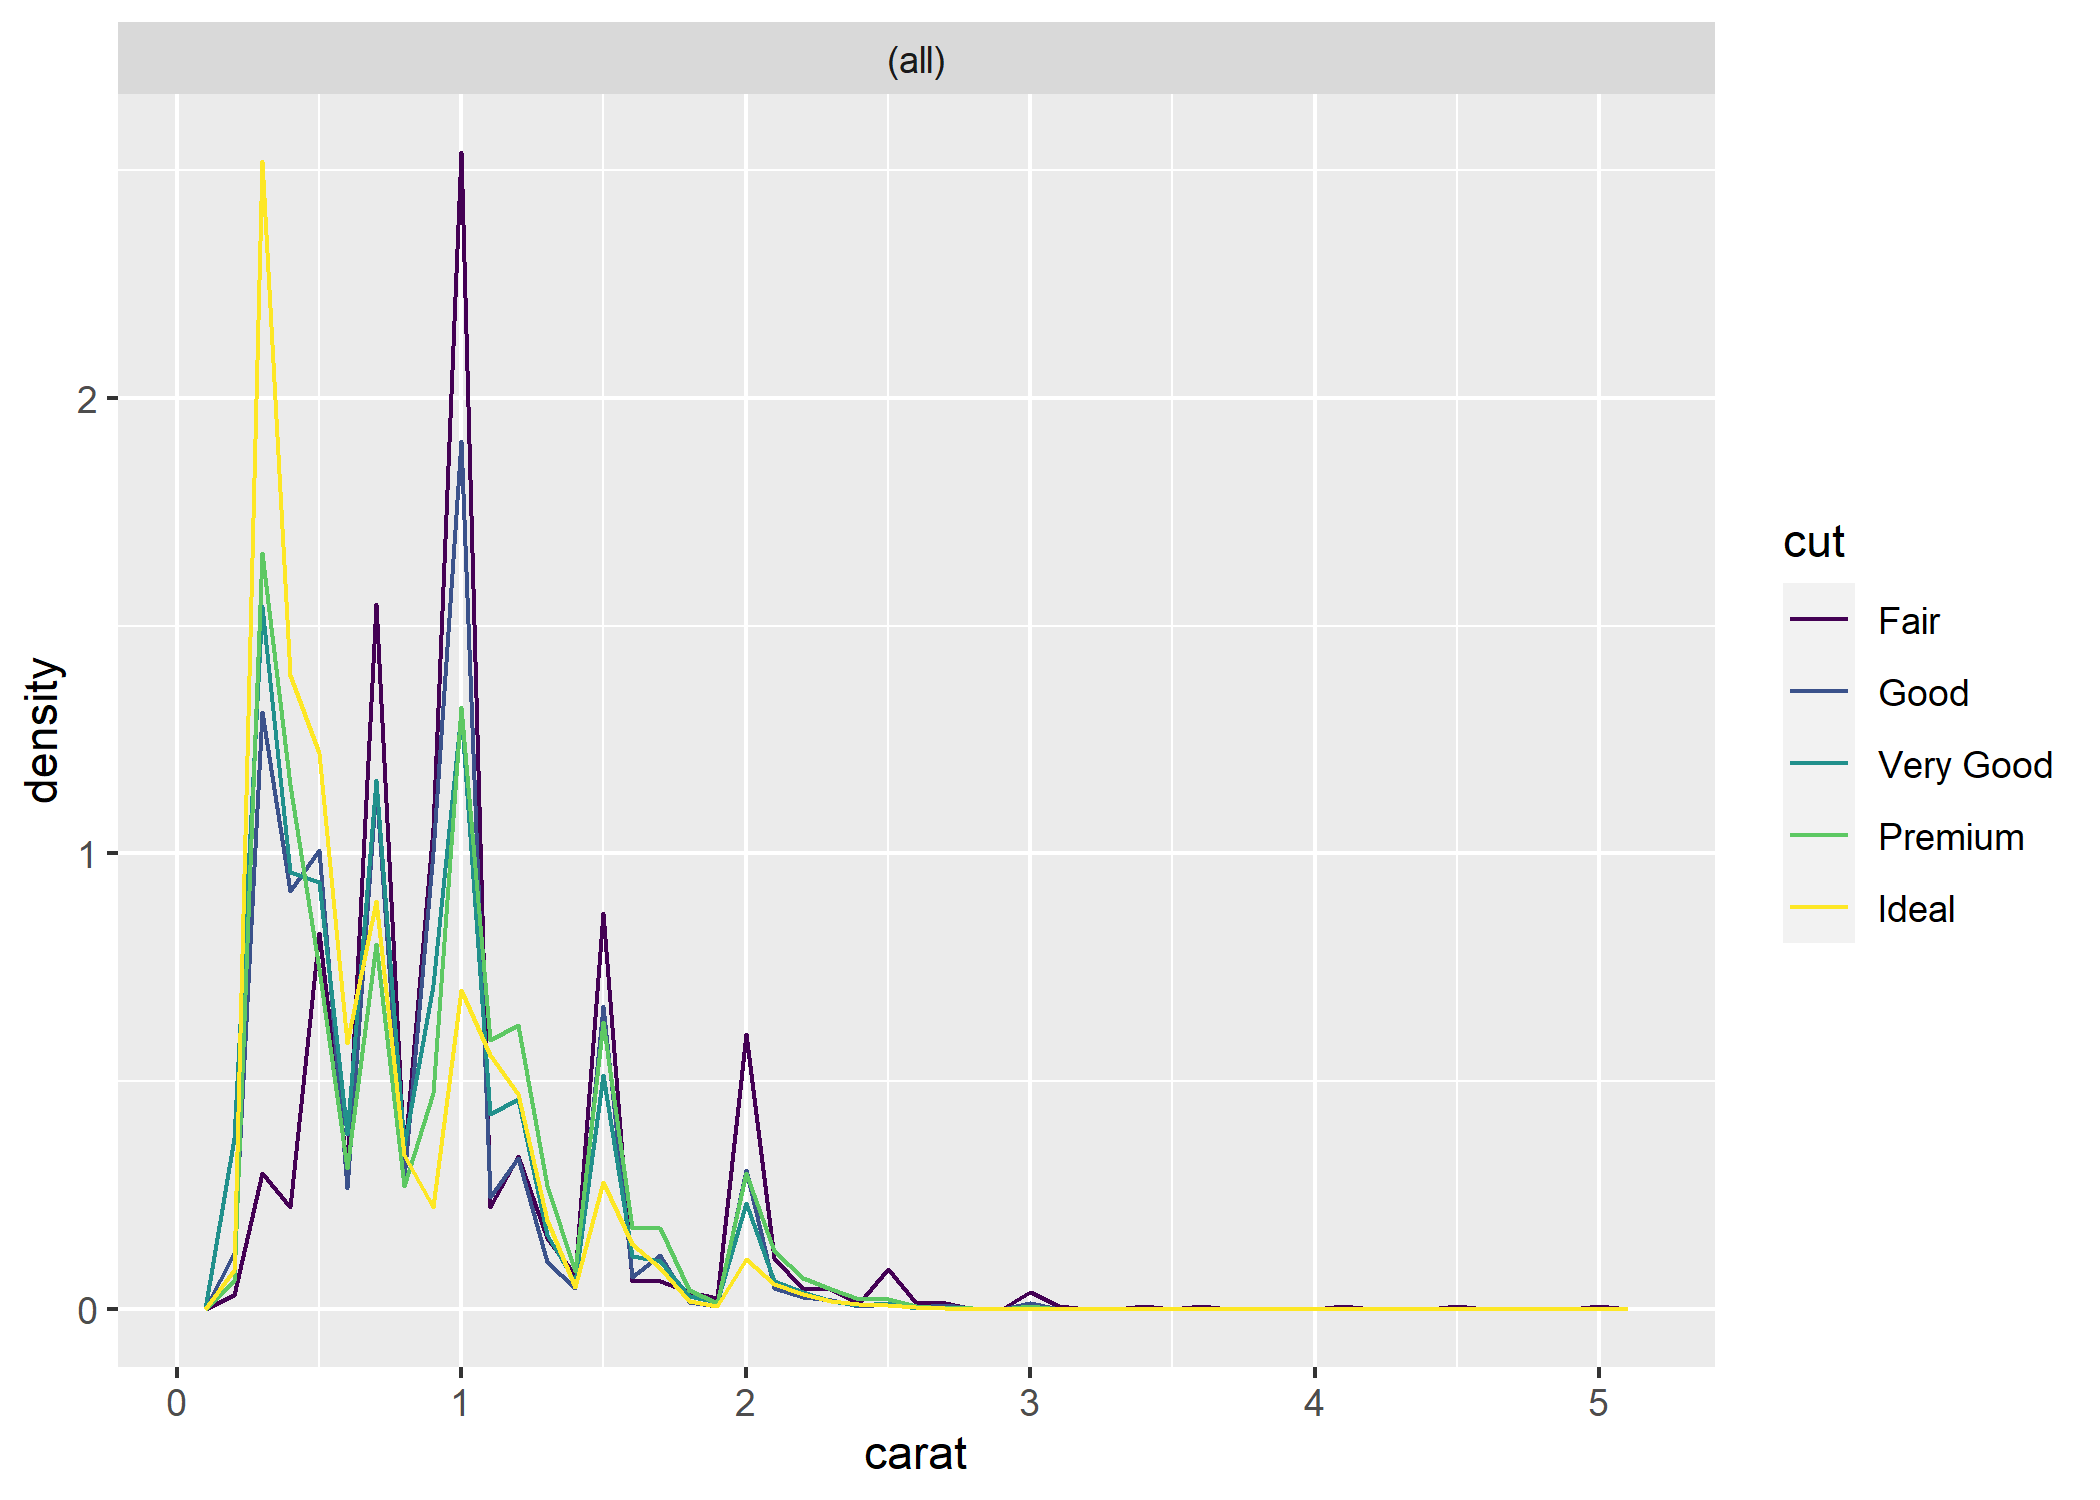
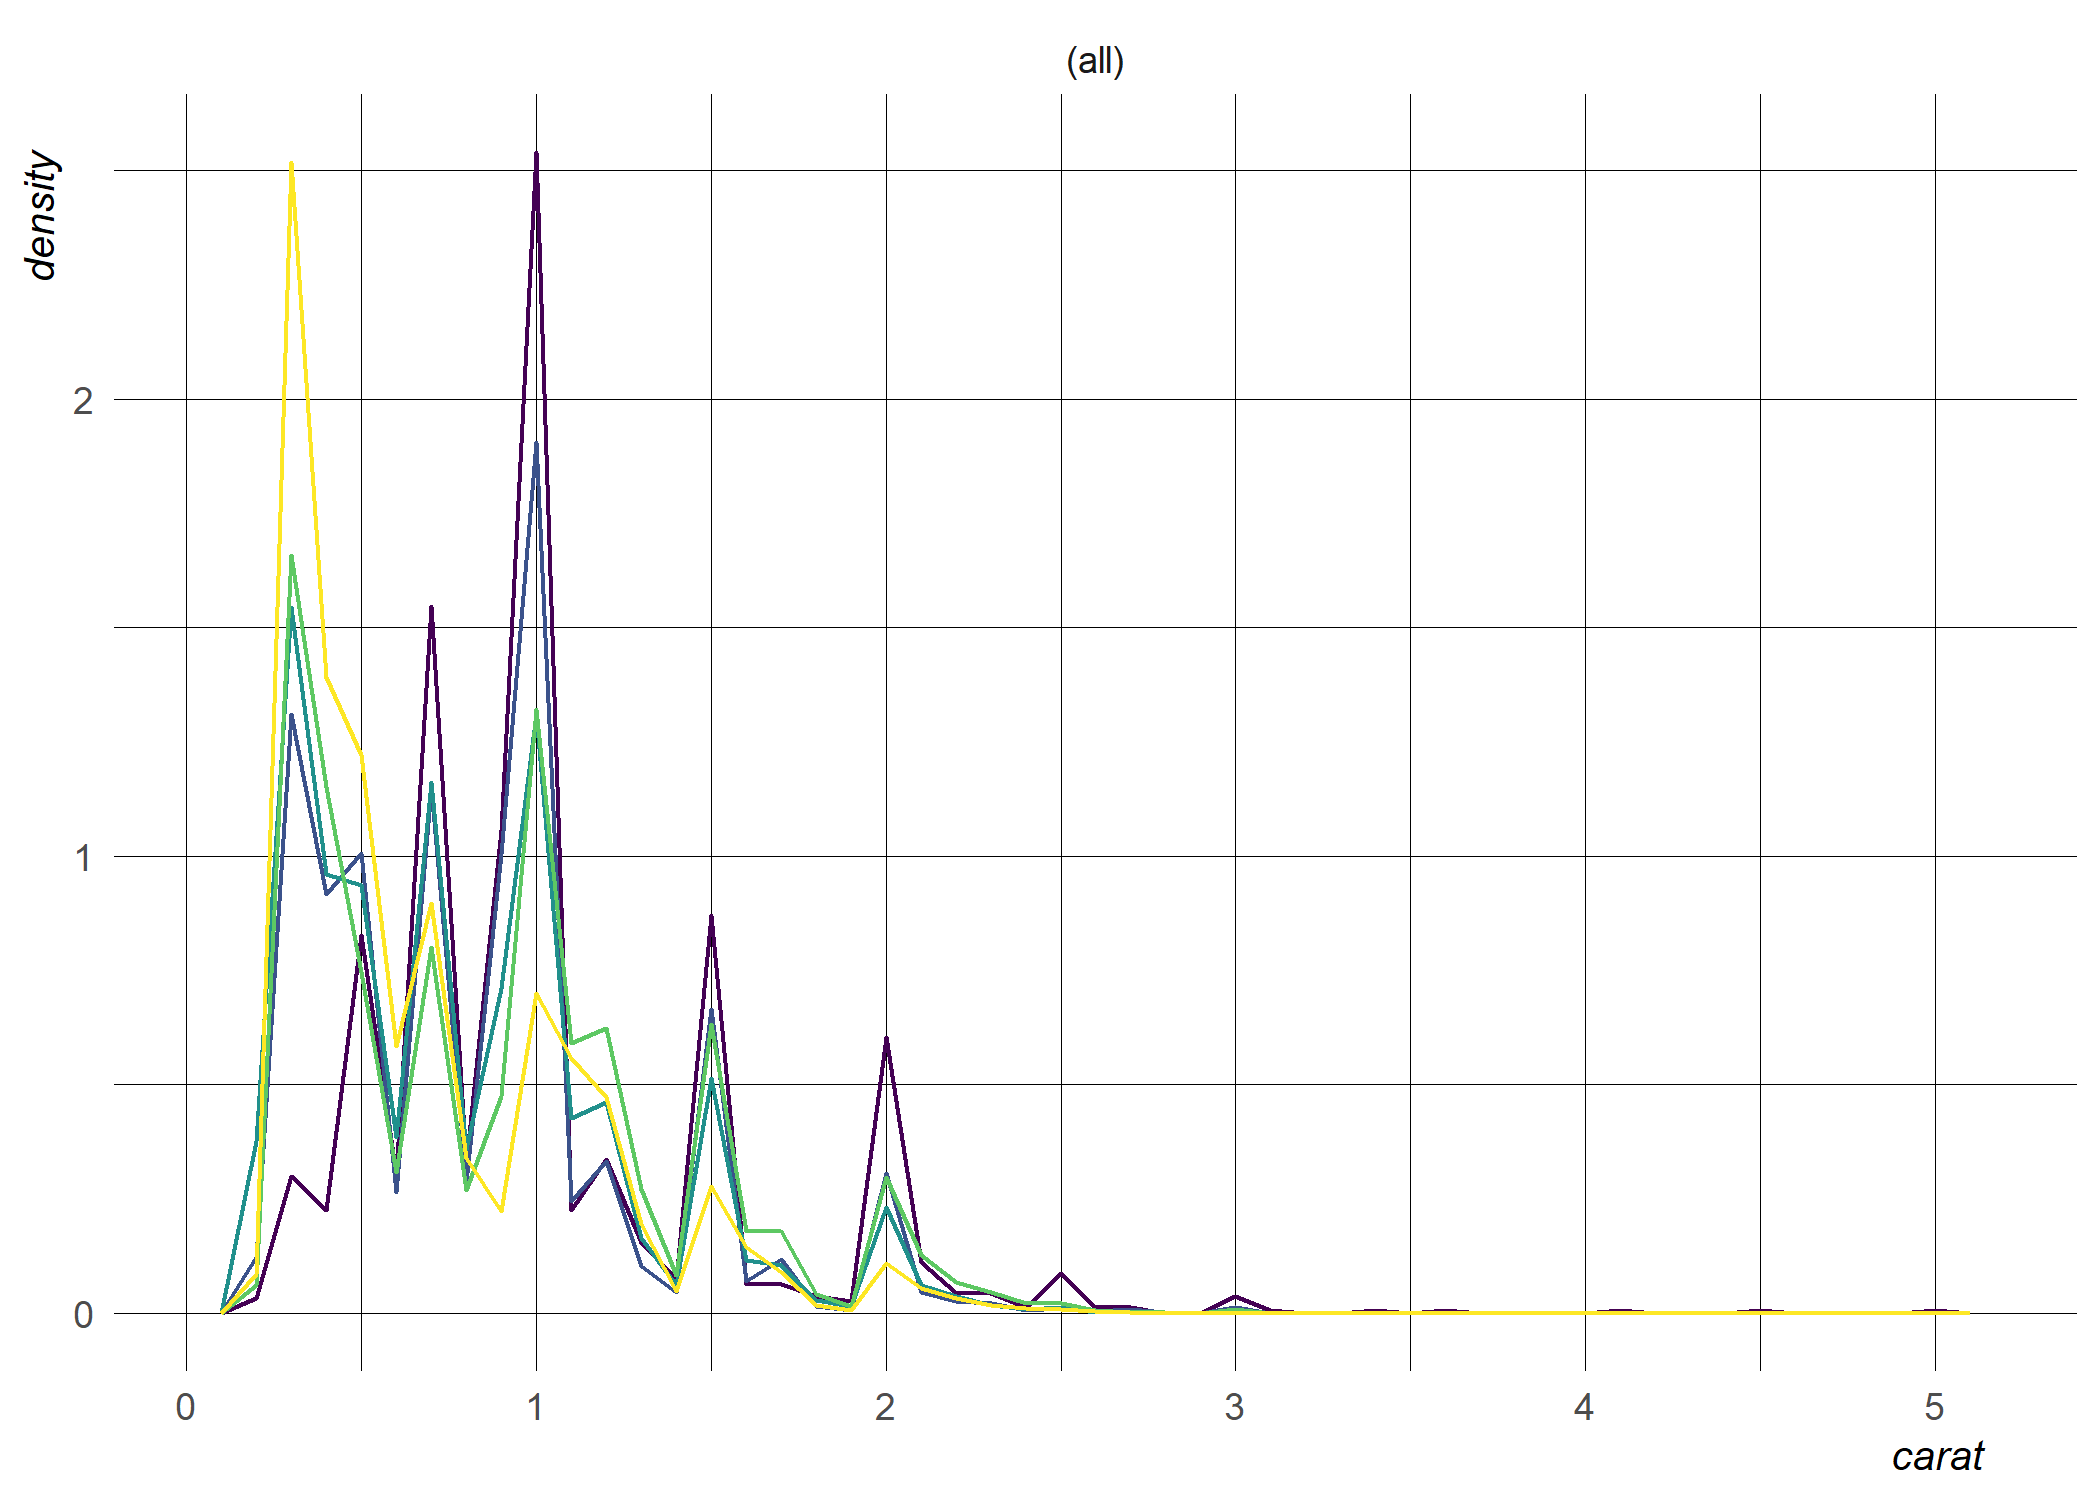
commit

diff --git a/README.md b/README.md
@@ -164,25 +164,25 @@ ggplot2::diamonds |>
 ## ggplots
 
 ``` r
-ggplot2::diamonds |> himni::histogram(carat, 0.1)
+ggplot2::diamonds |> himni::histogram(carat, 0.1) + himni::gg_theme()
 ```
 
 <img src="man/figures/README-unnamed-chunk-7-1.png" width="100%" />
 
 ``` r
-ggplot2::diamonds |> himni::density(carat)
+ggplot2::diamonds |> himni::density(carat) + himni::gg_theme()
 ```
 
 <img src="man/figures/README-unnamed-chunk-7-2.png" width="100%" />
 
 ``` r
-ggplot2::diamonds |> himni::density(carat, cut)
+ggplot2::diamonds |> himni::density(carat, cut) + himni::gg_theme()
 ```
 
 <img src="man/figures/README-unnamed-chunk-7-3.png" width="100%" />
 
 ``` r
-ggplot2::diamonds |> himni::density(carat, cut, clarity)
+ggplot2::diamonds |> himni::density(carat, cut, clarity) + himni::gg_theme()
 ```
 
 <img src="man/figures/README-unnamed-chunk-7-4.png" width="100%" />
